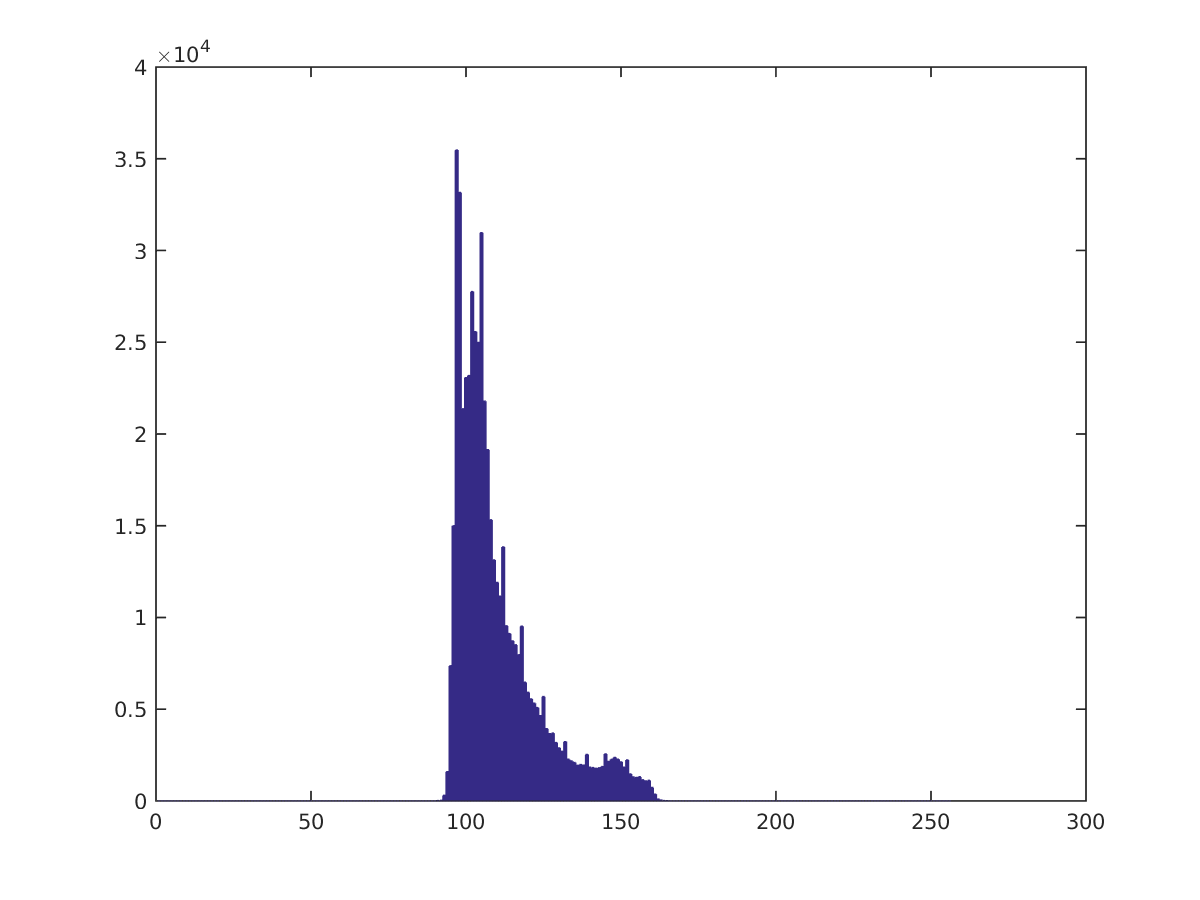
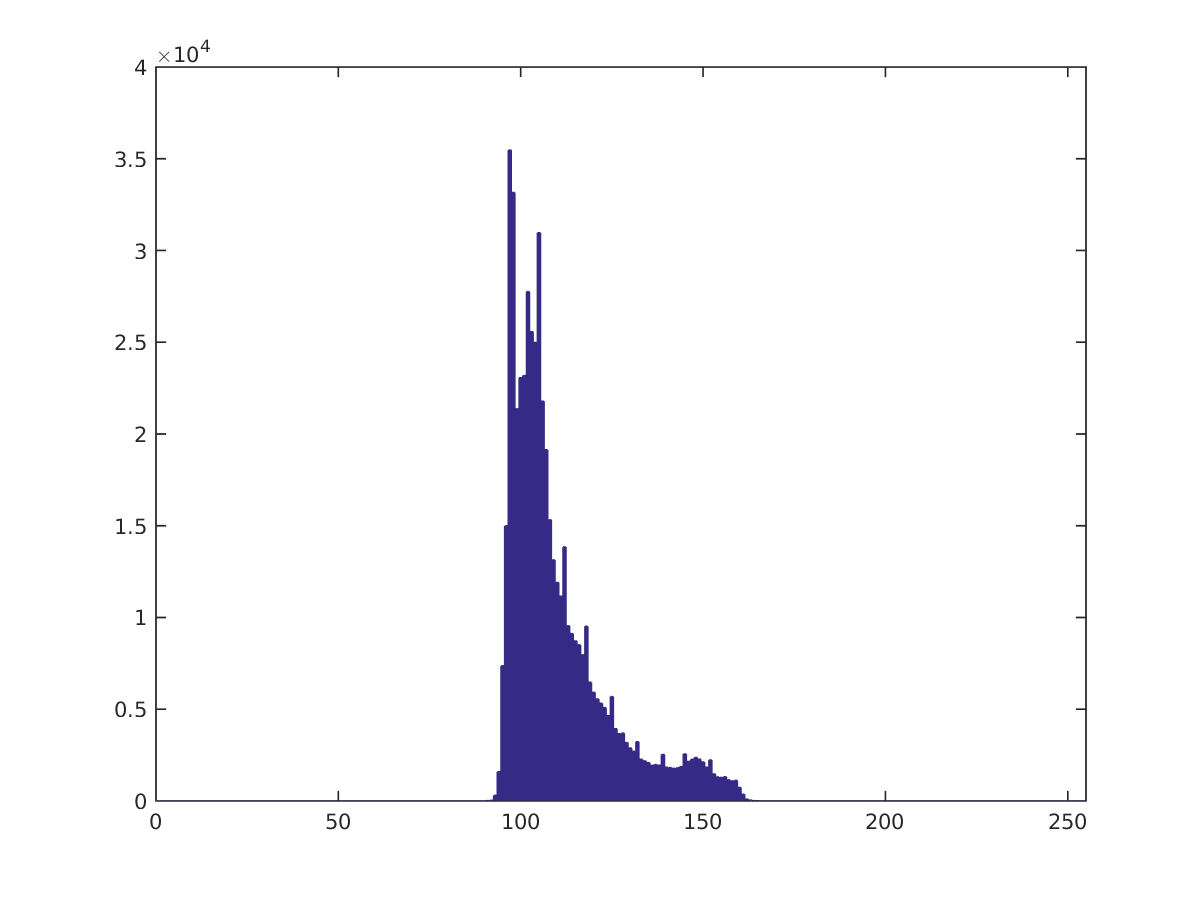
resolvida a questão 2 inteira

diff --git a/Laboratorio 5/Quest2/Quest2.m b/Laboratorio 5/Quest2/Quest2.m
@@ -8,28 +8,83 @@ tamimg = size(img);
 for linha = 1:1:tamimg(1)
   for coluna = 1:1:tamimg(2)
    oi =  img(linha,coluna);
-   histograma(oi) = histograma (oi) + 1;
+   histograma(oi+1) = histograma (oi+1) + 1;
  end
 end
-bar(histograma);
+bar(0:255,histograma);
+xlim([0 255]);
 saveas(gcf,'Q2_hist_fig.png');
-%%fim histograma original 
+%%fim histograma original
+%%-------------------------------------------------------------------------------------------
 %%histograma original einstein
 einst = imread('einsteinLowContrast.png');
 histeinst = zeros(1,256);
 temp = 0;
-tamimg = size(einst);
+tameinst = size(einst);
 
 
-for linha = 1:1:tamimg(1)
-  for coluna = 1:1:tamimg(2)
+for linha = 1:1:tameinst(1)
+  for coluna = 1:1:tameinst(2)
    temp =  einst(linha,coluna);
-   histeinst(temp) = histeinst (temp) + 1;
+   histeinst(temp+1) = histeinst (temp+1) + 1;
  end
 end
-bar(histeinst);
+bar(0:255,histeinst);
+xlim([0 255]);
 saveas(gcf,'hist_eintein.png');
 %%fim histograma einstein
-
+%%-------------------------------------------------------------------------------------------
 %%equalizar os histogramas
+img_eq = zeros(tamimg(1),tamimg(2));
+einst_eq = zeros(tameinst(1),tameinst(2));
+for linha=1:1:tamimg(1)
+    for coluna=1:1:tamimg(2)
+        img_eq(linha,coluna) = (255*sum(histograma(1:img(linha,coluna)+1)))/(tamimg(1)*tamimg(2));
+    end
+end
+for linha=1:1:tameinst(1)
+    for coluna=1:1:tameinst(2)
+       einst_eq(linha,coluna) = (255*sum(histeinst(1:einst(linha,coluna)+1)))/(tameinst(1)*tameinst(2));
+    end
+end
+img_eq = uint8(img_eq);
+einst_eq = uint8(einst_eq);
+imwrite(img_eq,'fig_equalizada.png');
+imwrite(einst_eq,'einstein_equalizado.png');
+%%termindo da equalização das imagens
+%%-------------------------------------------------------------------------------------------
+%%histograma das imagens equalizadas
+%%histograma da fig equalizada
+histograma = zeros(1,256);
+oi_eq = 0;
+tamimg_eq = size(img_eq);
+
+for linha = 1:1:tamimg_eq(1)
+  for coluna = 1:1:tamimg_eq(2)
+   oi_eq =  img_eq(linha,coluna);
+   histograma(oi_eq+1) = histograma (oi_eq+1) + 1;
+ end
+end
+bar(0:255,histograma);
+xlim([0 255]);
+saveas(gcf,'Q2_hist_fig_eq.png');
+%%fim histograma fig equalizada
+%%histograma einstein equalizado
+histeinst = zeros(1,256);
+temp_eq = 0;
+tameinst_eq = size(einst_eq);
+
+
+for linha = 1:1:tameinst_eq(1)
+  for coluna = 1:1:tameinst_eq(2)
+   temp_eq =  einst_eq(linha,coluna);
+   histeinst(temp_eq+1) = histeinst (temp_eq+1) + 1;
+ end
+end
+bar(0:255,histeinst);
+xlim([0 255]);
+saveas(gcf,'hist_eintein_eq.png');
+%%fim histograma einstein equalizado
+
+%%termino do histograma das imagens equalizadas
 
